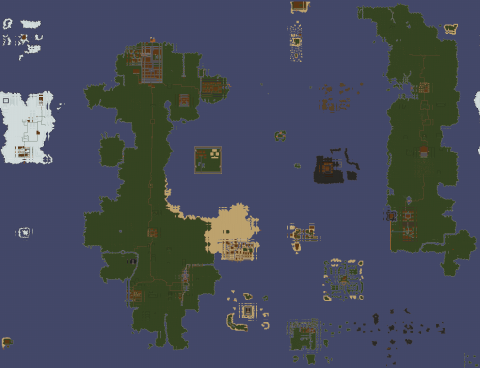
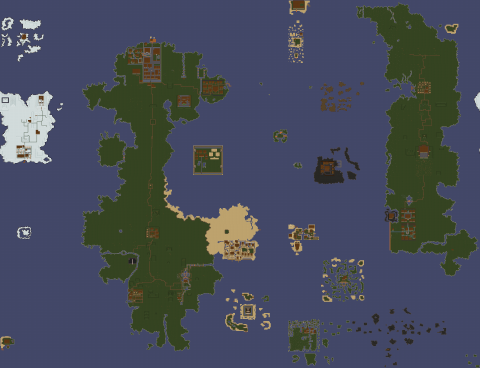
El mapa del mundo pinta sólo lo propio de cada mapa: las orillas repetían el comienzo del vecino y cada unión salía doble

diff --git a/CHANGELOG.md b/CHANGELOG.md
@@ -8,6 +8,9 @@ Lo nuevo desde el paquete del 5 de octubre.
 
 ### Chat, mapa y pantalla
 
+- **El mapa del mundo ya no repite las uniones entre mapas**: cada pedazo muestra sólo lo suyo, y la costa de Nix, por ejemplo,
+  ya no se ve doble.
+
 - **Al mirar a alguien, la vida en rojo y el nivel en celeste**, separados con un espacio: "Ves a Lobo nivel 8 64% de vida".
 
 - **Al crear el personaje se ven los atributos con los que nace**: la base de la clase, lo que suma o resta la raza y el
